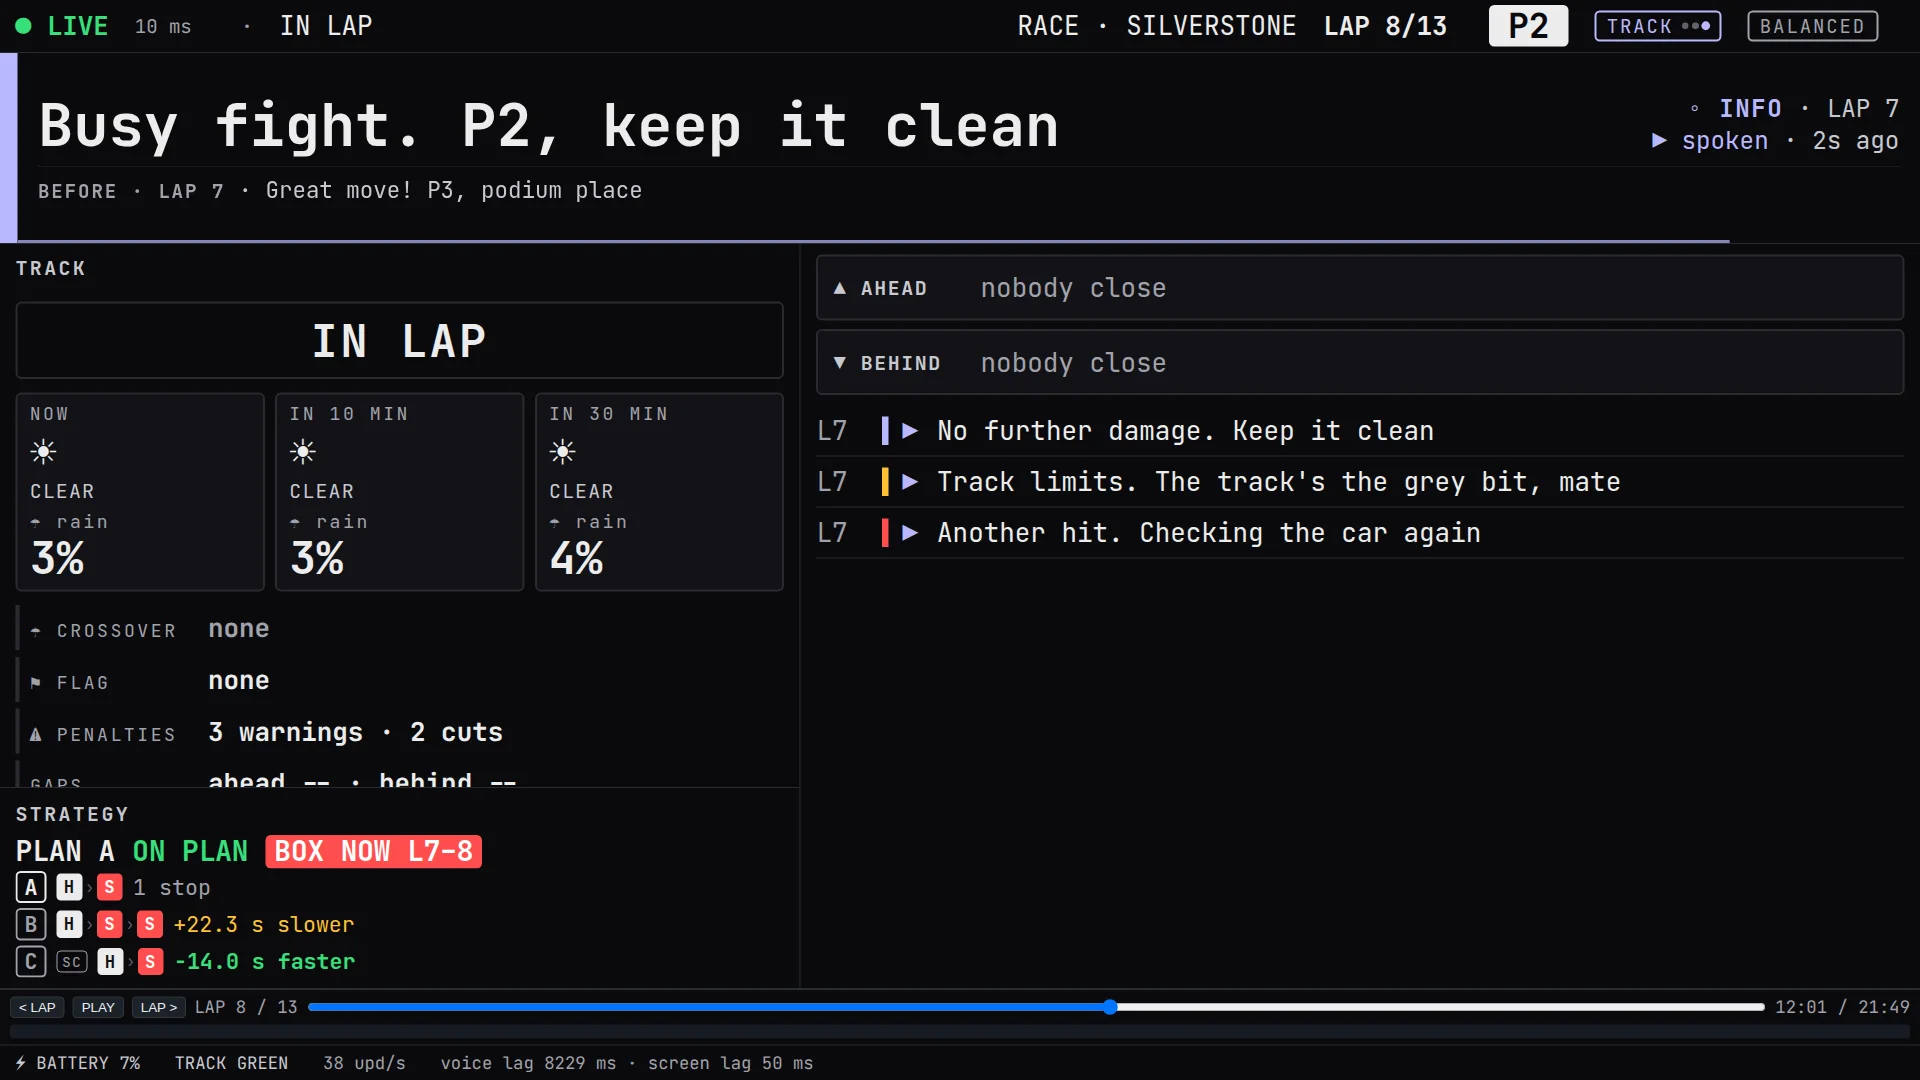
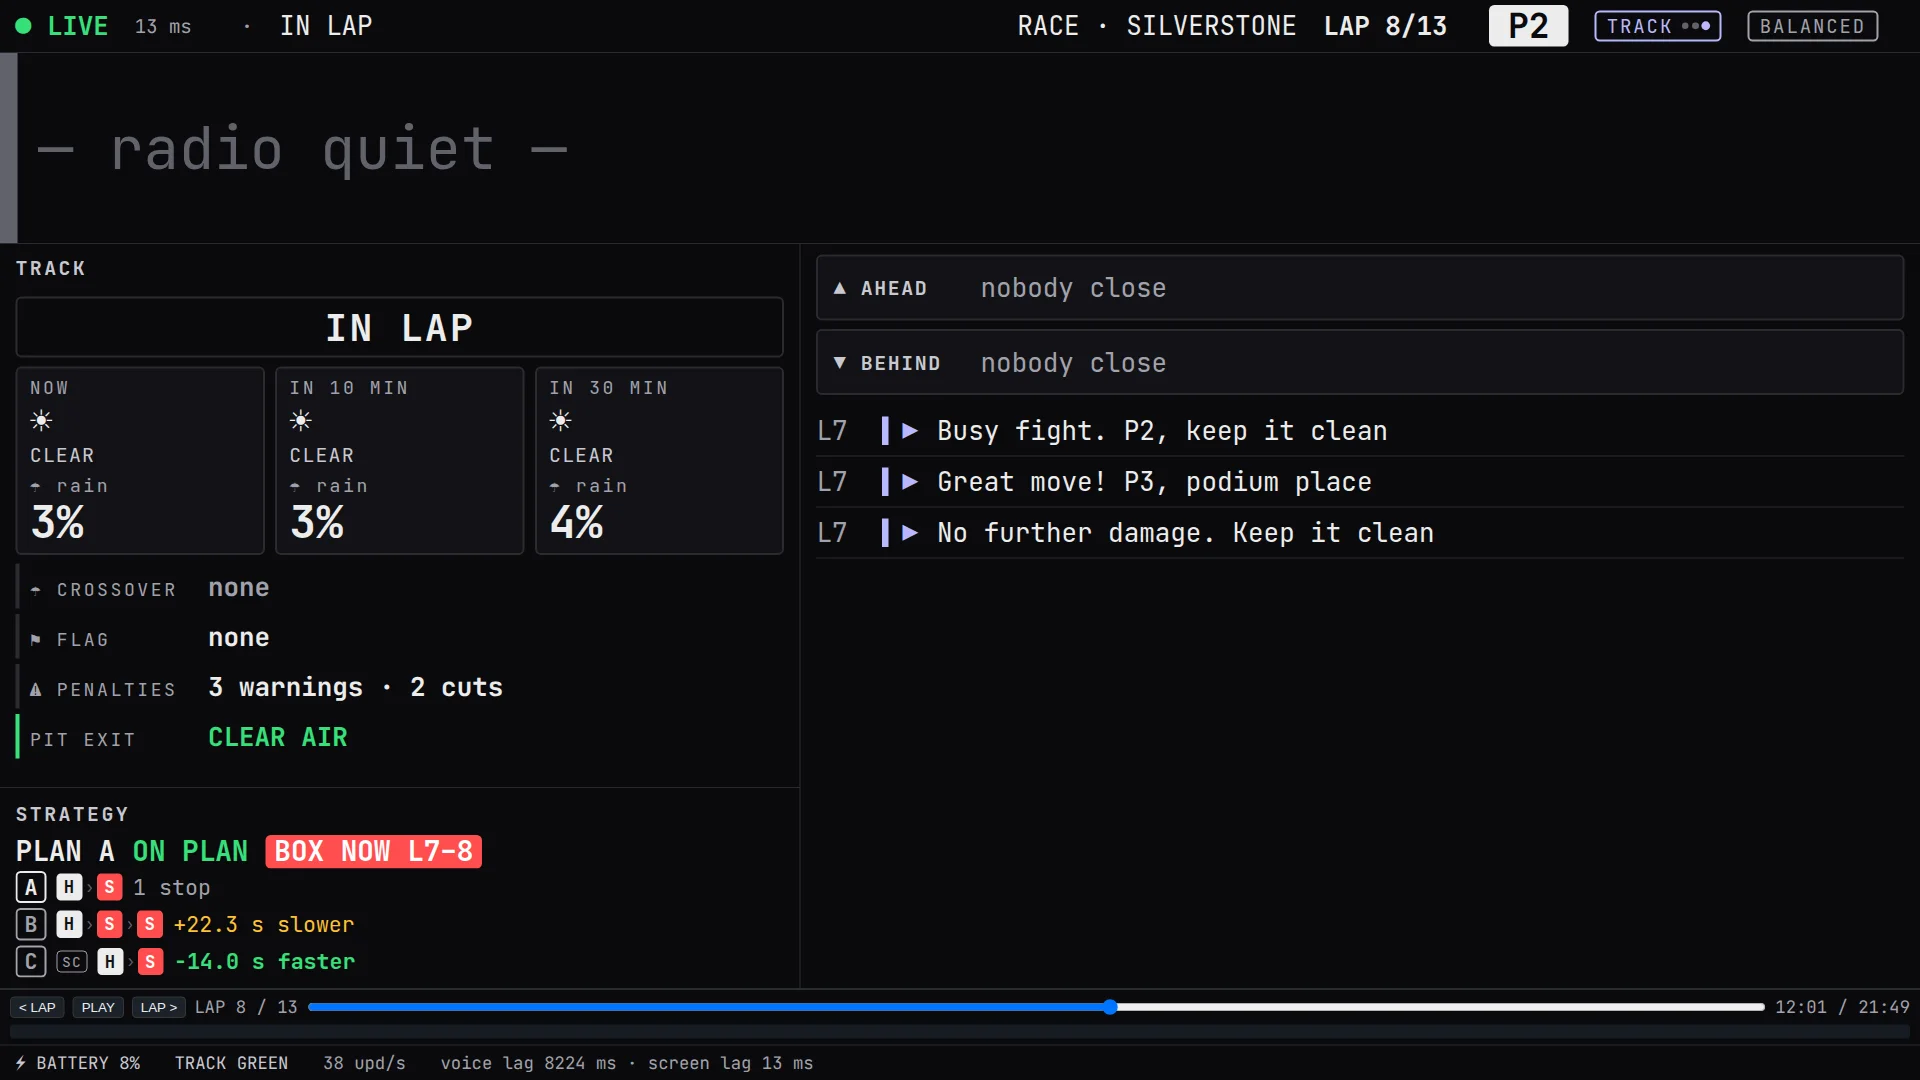
Track page: drop the GAPS row, tighten the left column so it fits

diff --git a/web/style.css b/web/style.css
@@ -469,7 +469,7 @@ body.stale .qrail > * { filter: grayscale(1); opacity: .4; }
 .cp-flags.ok { color: var(--dim); font-weight: normal; }
 .cp-flags.warn { color: var(--warn); }
 .cp-flags.crit { color: var(--crit); }
-.trackpage { grid-area: trackpage; flex-direction: column; gap: .8rem; }
+.trackpage { grid-area: trackpage; flex-direction: column; gap: .5rem; }
 .rivals { display: none; flex-direction: column; gap: .5rem; flex: none; }
 body.dash.page-car:not(.pit):not(.cool) #cp-rivals:not([hidden]),
 body.dash.page-track:not(.pit):not(.cool) #tp-rivals:not([hidden]) { display: flex; }
@@ -503,7 +503,7 @@ body.dash.page-car .cp-tile .big { font-size: 2.4rem; line-height: 1.1; }
   .rv-trend { font-size: 1.1rem; }
   .rv-gap { font-size: 2.4rem; }
 }
-.tp-status { font-size: 2.6rem; font-weight: bold; padding: .4rem .6rem; border-radius: 6px;
+.tp-status { font-size: 2.2rem; font-weight: bold; padding: .2rem .6rem; border-radius: 6px;
   border: 2px solid var(--line); text-align: center; letter-spacing: .06em; }
 .tp-status.sc { background: var(--warn); color: #000; }
 .tp-status.red { background: var(--crit); color: #fff; }
@@ -511,7 +511,7 @@ body.dash.page-car .cp-tile .big { font-size: 2.4rem; line-height: 1.1; }
 .tp-wxt { background: var(--panel); border: 2px solid var(--line); border-radius: 6px; padding: .4rem .7rem;
   display: grid; grid-template-rows: auto auto auto auto auto; min-width: 0; }
 .tp-wxt .k { color: var(--dim); font-size: 1.05rem; letter-spacing: .14em; white-space: nowrap; }
-.tp-wxt .ico { font-size: 2.6rem; line-height: 1.15; color: var(--fg); min-height: 3rem; }
+.tp-wxt .ico { font-size: 2.2rem; line-height: 1.1; color: var(--fg); min-height: 2.4rem; }
 .tp-wxt .sky { font-size: 1.15rem; color: var(--dim); text-transform: uppercase; letter-spacing: .06em; white-space: nowrap;
   overflow: hidden; text-overflow: ellipsis; min-height: 1.5rem; margin-bottom: .3rem; }
 .tp-wxt .pct { font-size: 2.6rem; font-weight: bold; line-height: 1.1; color: var(--fg); }
@@ -521,7 +521,7 @@ body.dash.page-car .cp-tile .big { font-size: 2.4rem; line-height: 1.1; }
 .tp-wxt.storm { border-color: var(--crit); background: color-mix(in srgb, var(--crit) 12%, var(--panel)); }
 .tp-row .v .cb { margin: 0 .4rem; vertical-align: baseline; }
 .tp-row .v .cb .comp { font-size: 1.1rem; }
-.tp-rows { display: flex; flex-direction: column; gap: .4rem; }
+.tp-rows { display: flex; flex-direction: column; gap: .3rem; }
 .tp-row { font-size: 1.5rem; padding: .3rem .6rem; border-left: 4px solid var(--line); display: flex;
   align-items: baseline; gap: .8rem; white-space: nowrap; min-width: 0; min-height: 2.4rem; }
 .tp-row .k { color: var(--dim); font-size: 1.05rem; letter-spacing: .14em; width: 9.5rem; flex: none; }

diff --git a/web/index.html b/web/index.html
@@ -9,7 +9,7 @@
   <meta name="apple-mobile-web-app-capable" content="yes">
   <meta name="apple-mobile-web-app-status-bar-style" content="black-translucent">
   <title>pitwall</title>
-  <link rel="stylesheet" href="/static/style.css?v=15">
+  <link rel="stylesheet" href="/static/style.css?v=16">
 </head>
 <body class="dash connecting">
   <header class="status">
@@ -176,7 +176,6 @@
       <div id="tp-cross" class="tp-row">--</div>
       <div id="tp-flags" class="tp-row">--</div>
       <div id="tp-pens" class="tp-row">--</div>
-      <div id="tp-traffic" class="tp-row">--</div>
       <div id="tp-exit" class="tp-row">--</div>
     </div>
   </section>
@@ -219,7 +218,7 @@
     <div class="drvmenu-head">RADIO PIT <span id="drvmenu-left" class="dim"></span></div>
     <ol id="drvmenu-list"></ol>
   </aside>
-  <script src="/static/app.js?v=15"></script>
-  <script src="/static/review.js?v=15"></script>
+  <script src="/static/app.js?v=16"></script>
+  <script src="/static/review.js?v=16"></script>
 </body>
 </html>

diff --git a/web/app.js b/web/app.js
@@ -820,8 +820,6 @@
     if (t.warnings) pens.push(t.warnings + (t.warnings === 1 ? " warning" : " warnings"));
     if (t.corner_cut_warnings) pens.push(t.corner_cut_warnings + (t.corner_cut_warnings === 1 ? " cut" : " cuts"));
     tpRow("tp-pens", "⚠ PENALTIES", pens.length ? pens.join(" · ") : "none", t.unserved ? "crit" : t.penalty_s ? "warn" : "");
-    tpRow("tp-traffic", "GAPS", "ahead " + gapText(t.gap_ahead_s) + " · behind " +
-      gapText(t.gap_behind_s === null || t.gap_behind_s === undefined ? null : -t.gap_behind_s), "");
     tpRow("tp-exit", "PIT EXIT", t.pit_exit_clean ? "CLEAR AIR" : "TRAFFIC", t.pit_exit_clean ? "ok" : "warn");
   }
 
